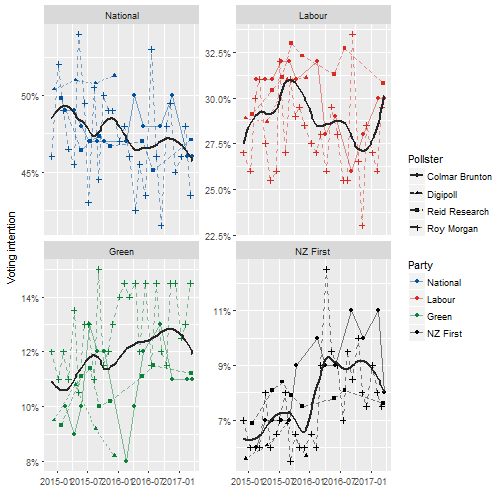
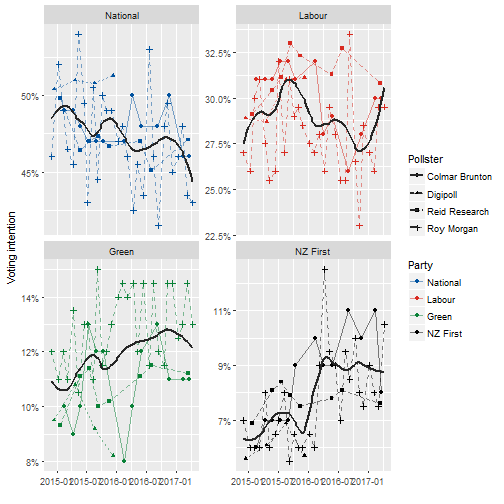
Add April Roy Morgan poll

diff --git a/pkg1/inst/doc/README.html b/pkg1/inst/doc/README.html
@@ -145,8 +145,13 @@ proportions &lt;-<span class="st"> </span>GE2014 %&gt;%
 </div>
 <div id="geographical-location-of-voting-places" class="section level3">
 <h3>Geographical location of voting places</h3>
-<div class="sourceCode"><pre class="sourceCode r"><code class="sourceCode r"><span class="kw">library</span>(ggthemes) <span class="co"># for theme_map()</span>
-GE2014 %&gt;%
+<div class="sourceCode"><pre class="sourceCode r"><code class="sourceCode r"><span class="kw">library</span>(ggthemes) <span class="co"># for theme_map()</span></code></pre></div>
+<pre><code>## 
+## Attaching package: 'ggthemes'</code></pre>
+<pre><code>## The following object is masked _by_ '.GlobalEnv':
+## 
+##     theme_map</code></pre>
+<div class="sourceCode"><pre class="sourceCode r"><code class="sourceCode r">GE2014 %&gt;%
 <span class="st">    </span><span class="kw">filter</span>(VotingType ==<span class="st"> &quot;Party&quot;</span>) %&gt;%
 <span class="st">    </span><span class="kw">group_by</span>(VotingPlace) %&gt;%
 <span class="st">    </span><span class="kw">summarise</span>(<span class="dt">ProportionNational =</span> <span class="kw">sum</span>(Votes[Party ==<span class="st"> &quot;National Party&quot;</span>] /<span class="st"> </span><span class="kw">sum</span>(Votes))) %&gt;%
@@ -254,7 +259,7 @@ polls %&gt;%
 <span class="st">    </span><span class="kw">scale_x_date</span>(<span class="st">&quot;&quot;</span>) +
 <span class="st">    </span><span class="kw">facet_wrap</span>(~Party, <span class="dt">scales =</span> <span class="st">&quot;free_y&quot;</span>) </code></pre></div>
 <pre><code>## `geom_smooth()` using method = 'loess'</code></pre>
[2 lines of base64/hex data omitted]
 <p>Note that it is not appropriate to frequently update the version of <code>nzelect</code> on CRAN, so polling data will generally be out of date. The development version of <code>nzelect</code> from GitHub will be kept more up to date (but no promises exactly how much).</p>
 </div>
 <div id="usage---convenience-functions" class="section level2">
@@ -322,15 +327,15 @@ polls %&gt;%
 <pre><code>## # A tibble: 9 × 5
 ##           Party pundit_perc curia_perc pundit_seats curia_seats
 ##           &lt;chr&gt;       &lt;dbl&gt;      &lt;dbl&gt;        &lt;dbl&gt;       &lt;dbl&gt;
-## 1           ACT         0.5        0.4            1           1
-## 2  Conservative         0.3        0.3            0           0
-## 3         Green        12.0       11.0           14          13
-## 4        Labour        29.6       30.0           36          36
-## 5          Mana         0.2        0.2            0           0
-## 6         Maori         2.1        4.0            3           5
-## 7      National        46.0       46.0           56          56
-## 8      NZ First         8.2        8.0           10          10
-## 9 United Future         0.3        0.0            1           1</code></pre>
+## 1           ACT         0.9        1.5            1           2
+## 2  Conservative         0.4        0.5            0           0
+## 3         Green        12.3       13.0           15          16
+## 4        Labour        29.6       29.5           36          36
+## 5          Mana         0.1        0.0            0           0
+## 6         Maori         1.7        1.0            2           1
+## 7      National        44.9       43.0           55          52
+## 8      NZ First         9.0       10.5           11          13
+## 9 United Future         0.2        0.0            1           1</code></pre>
 </div>
 </div>
 

diff --git a/README.md b/README.md
@@ -65,20 +65,6 @@ library(ggplot2, quietly = TRUE)
 library(scales, quietly = TRUE)
 library(GGally, quietly = TRUE) # for ggpairs
 library(gridExtra, quietly = TRUE) # for grid.arrange
-```
-
-```
-## 
-## Attaching package: 'gridExtra'
-```
-
-```
-## The following object is masked from 'package:dplyr':
-## 
-##     combine
-```
-
-```r
 library(dplyr)
 
 proportions <- GE2014 %>%
@@ -118,10 +104,6 @@ GE2014 %>%
     theme_map() +
     theme(legend.position = c(0.04, 0.55)) +
     ggtitle("Voting patterns in the 2014 General Election\n")
-```
-
-```
-## Loading required package: grid
 ```
 
 ```
